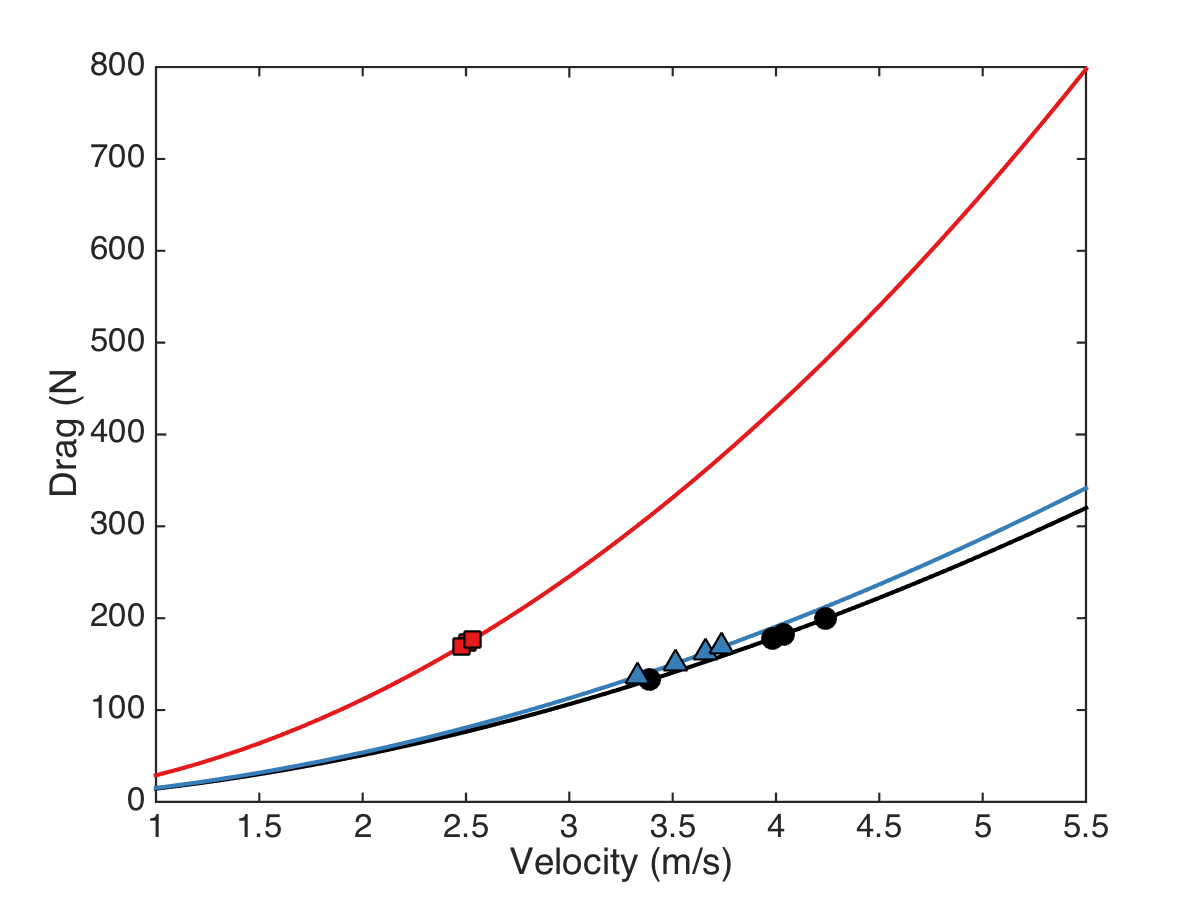
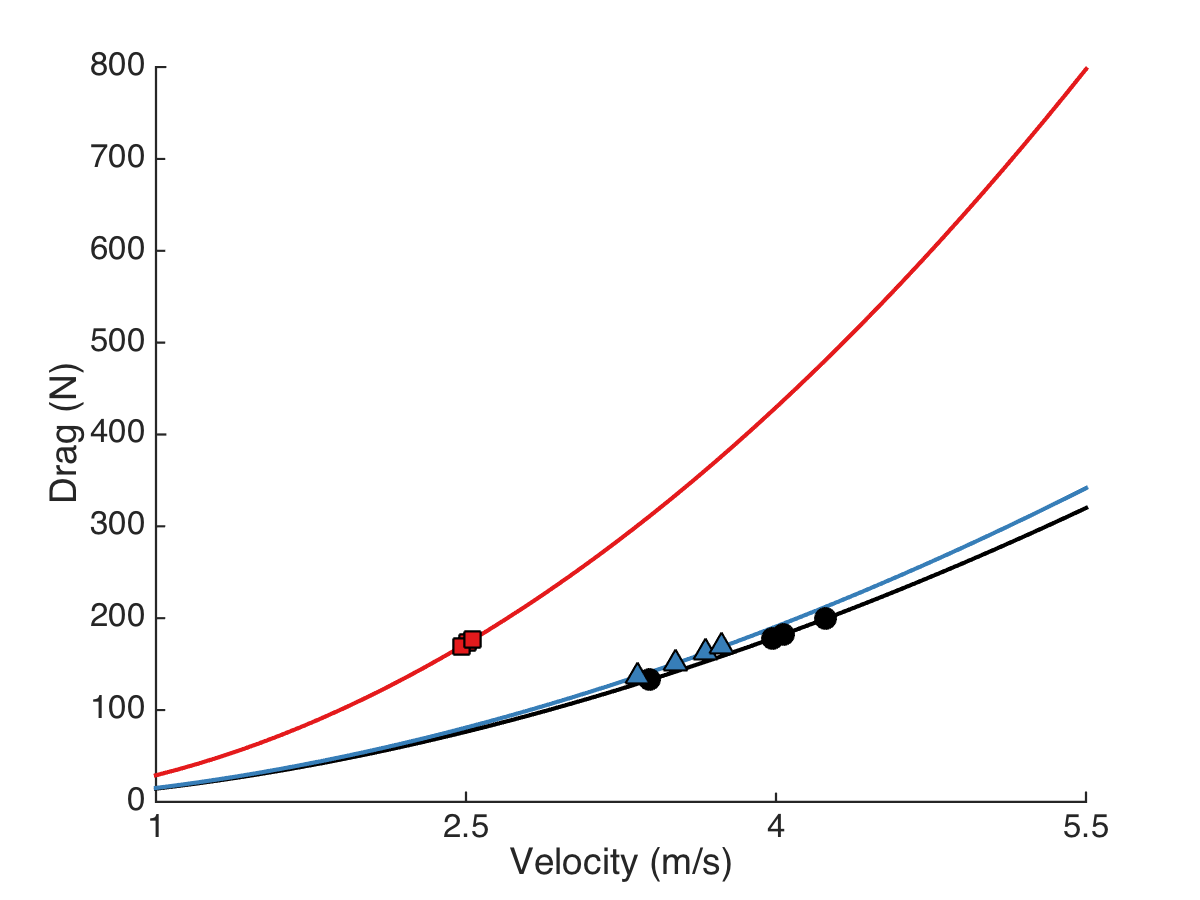
Fix Labeling, Boxes

diff --git a/SlowDownPresPlots.m b/SlowDownPresPlots.m
@@ -9,7 +9,8 @@ plot(velHD,c_tag(1)*velHD.^c_tag(2),'color',[55/255 126/255 184/255],'linewidth'
 plot(velHD,c_tag8(1)*velHD.^c_tag8(2),'color',[228/255 26/255 28/255],'linewidth',2)
 
 xlabel('Velocity (m/s)'); xlim([1 5.5])
-ylabel('Drag (N')
+ylabel('Drag (N)')
+set(gca,'xtick',[1 2.5 4 5.5])
 adjustfigurefont('Helvetica',16)
 
 plot(mean(Lono_C),c_notag(1)*mean(Lono_C).^c_notag(2),'ko','markerfacecolor','k','markersize',10)
@@ -29,6 +30,7 @@ plot(mean(Nainoa_A),c_tag(1)*mean(Nainoa_A).^c_tag(2),'k^','markerfacecolor',[55
 plot(mean(Nainoa_A4),c_tag8(1)*mean(Nainoa_A4).^c_tag8(2),'ks','markerfacecolor',[228/255 26/255 28/255],'markersize',10)
 
 % save
+box off
 print -dpng MetabolicSpeed_DragCurve
 
 %% add velocities from loading/unloading trials
@@ -42,8 +44,9 @@ plot(velHD,c_tag6(1)*velHD.^c_tag6(2),'color',[152/255 78/255 163/255],'linewidt
 plot(velHD,c_tag8(1)*velHD.^c_tag8(2),'color',[228/255 26/255 28/255],'linewidth',2)
 xlim([1 5.5])
 
-%% add patch in between
-patch([1 5.5 5.5 1 1],[0 0 800 800 0],'w','facealpha',0.75)
+%% add patch in between (and make it so patches don't go over ticks)
+patch([1.1 5.5 5.5 1.1 1.1],[10 10 800 800 10],'w','facealpha',0.75,'edgealpha',0)
+patch([1 1.1 1.1 1 1],[0 0 50 50 0],'w','facealpha',0.75,'edgealpha',0)
 
 %% load data
 load('KoloheLoadUnloadSpeed') 
@@ -63,10 +66,12 @@ Upath(:,2) = [c_tag8(1)*nanmean(T8.Uspeed).^c_tag8(2), c_tag6(1)*nanmean(T6.Uspe
 plot(Upath(:,1),Upath(:,2),'k--')
 
 xlabel('Velocity (m/s)'); xlim([1 5.5])
-ylabel('Drag (N')
+ylabel('Drag (N)')
+set(gca,'xtick',[1 2.5 4 5.5])
 adjustfigurefont('Helvetica',16)
 
 % save
+box off
 print -dpng LoadReliefK_DragCurve_unloadonly
 
 %% loading
@@ -87,4 +92,5 @@ Lpath(:,2) = [c_tag8(1)*nanmean(T8.Lspeed).^c_tag8(2), c_tag6(1)*nanmean(T6.Lspe
 plot(Lpath(:,1),Lpath(:,2),'k-')
 
 % save
+box off
 print -dpng LoadReliefK_DragCurve
